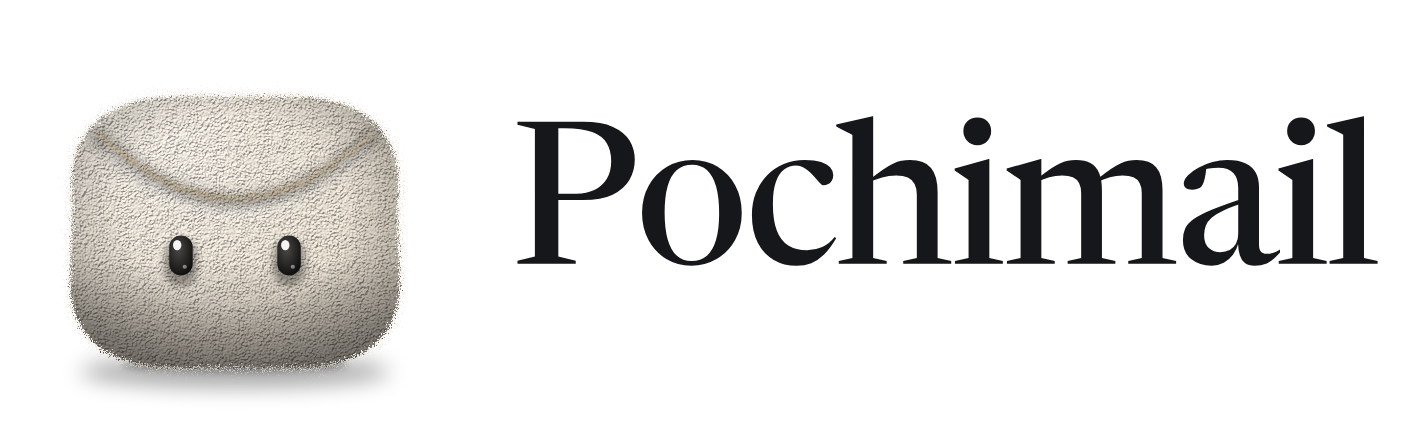
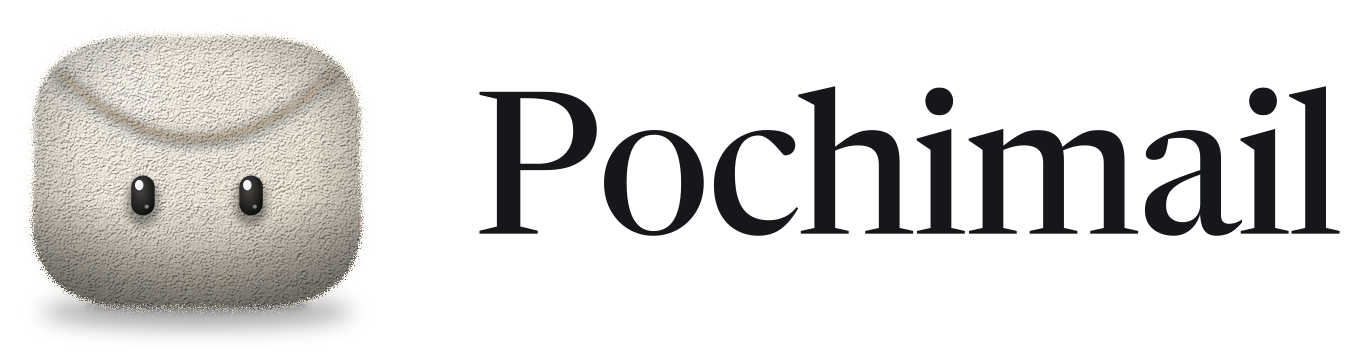
chore(brand): README header, lockup alignment, social assets
- README: drop the extra mascot image beside the CI badge
- lockup/wordmark SVGs: envelope optically centred on the wordmark, equal padding, tight viewBox; PNGs re-exported at 1x/2x
- brand/social: GitHub preview, OG image, X header, LinkedIn banner, full-bleed avatars (1024, 400) + README
- docs/assets/social-preview.png replaced by brand/social/github-social-preview.png

Changed region(s): [[0.0, 0.0917, 0.3088, 0.9167], [0.3397, 0.2444, 0.9882, 0.6722]]

diff --git a/packages/ui/src/assets/brand/social/README.md b/packages/ui/src/assets/brand/social/README.md
@@ -1,0 +1,14 @@
+# Social assets
+
+Rendered from `../app-icon-master.svg` and `../wordmark-light.svg` on the brand background `#15171A` (sharp 0.35.5, outside the repo; no runtime dependency). Key content stays inside the centre 80%.
+
+| File | Size | Used for |
+|---|---|---|
+| `github-social-preview.png` | 1280×640 | GitHub repository social preview (Settings › Social preview) |
+| `og-image.png` | 1200×630 | Website Open Graph / link previews (getpochimail.com) |
+| `x-header.png` | 1500×500 | X (Twitter) profile header |
+| `linkedin-banner.png` | 1584×396 | LinkedIn page banner |
+| `avatar-square.png` | 1024×1024 | Full-bleed app icon (circle-crop safe) for GitHub org/profile and other profile pictures |
+| `avatar-square-400.png` | 400×400 | Same, for services that want a small upload |
+
+Brand assets are not covered by the code license; see `../../../../../../TRADEMARKS.md`.

diff --git a/README.md b/README.md
@@ -7,7 +7,6 @@
 
 <p align="center">
   <a href="https://github.com/jdflament/pochimail/actions/workflows/ci.yml"><img src="https://github.com/jdflament/pochimail/actions/workflows/ci.yml/badge.svg" alt="CI"></a>
-  <img src="packages/ui/src/assets/mascot/pochi-default@2x.png" alt="Pochi, the Pochimail assistant" width="96">
 </p>
 
 # Pochimail
